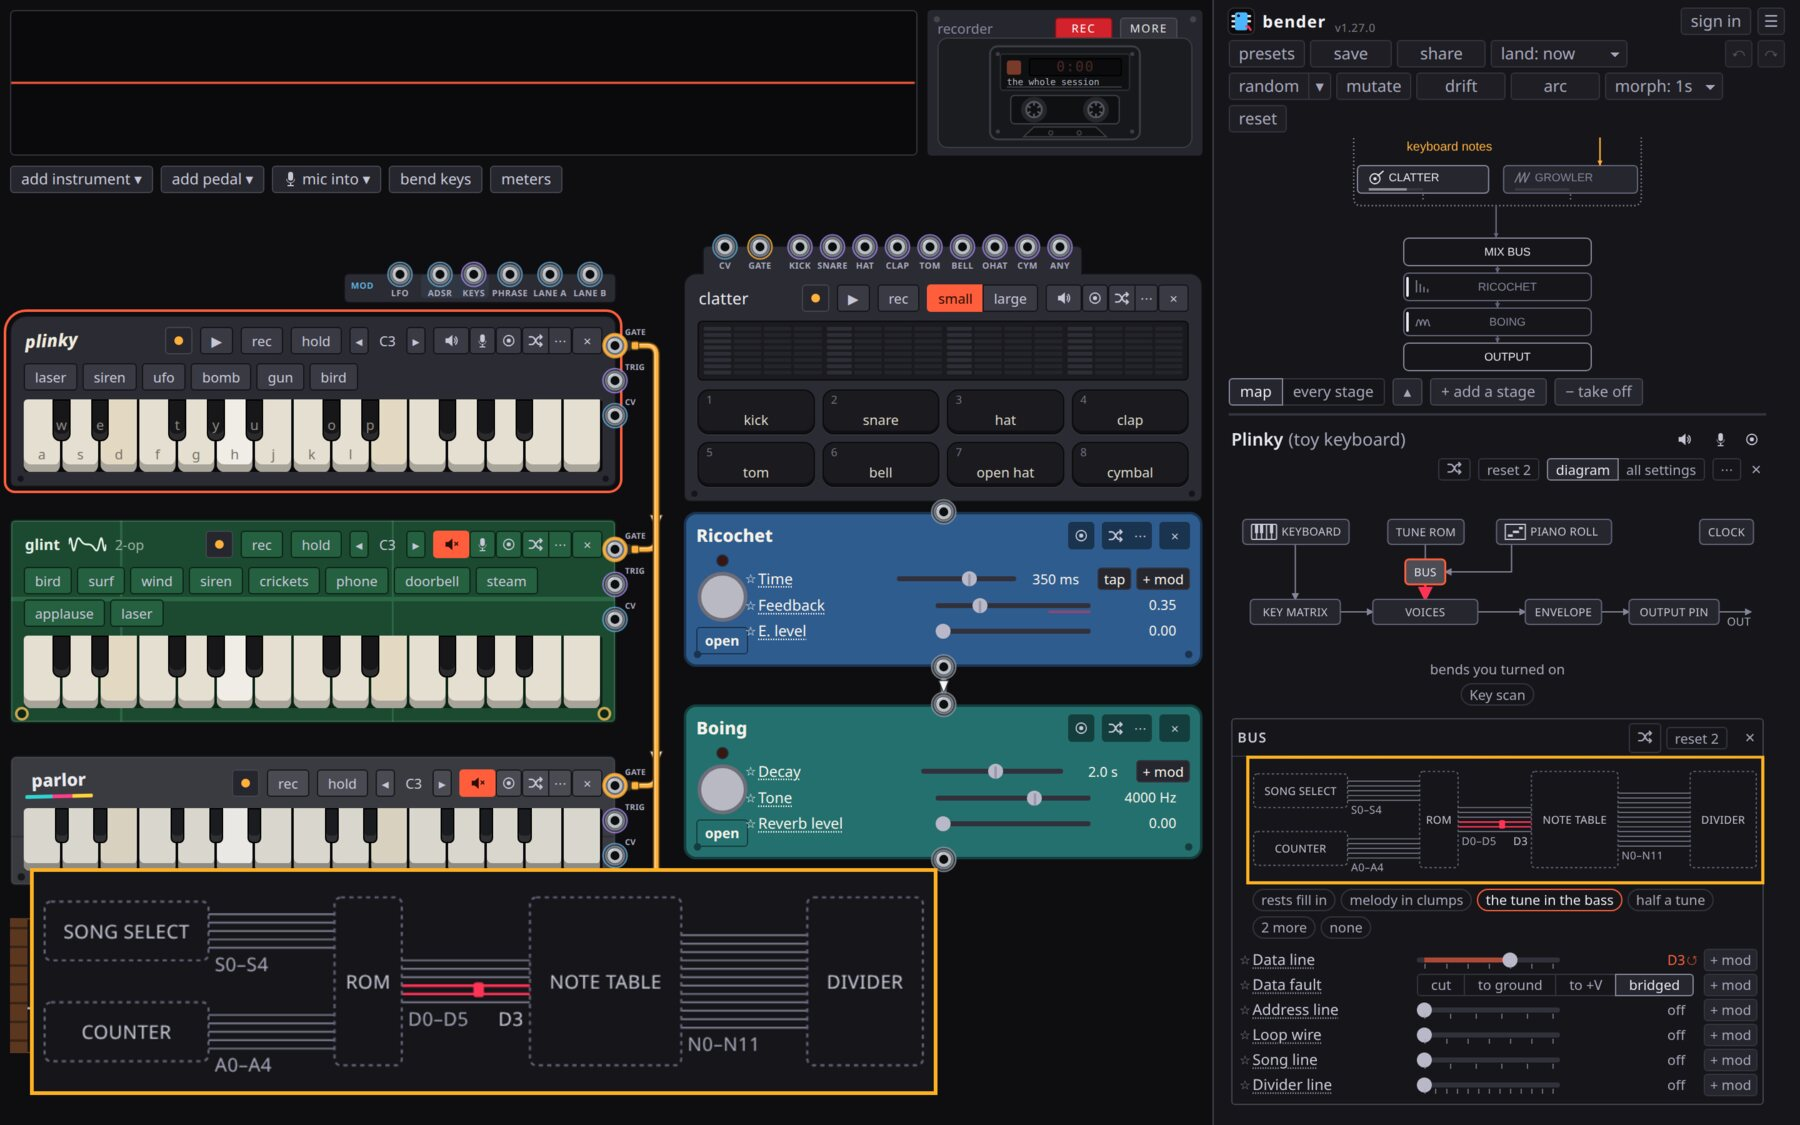
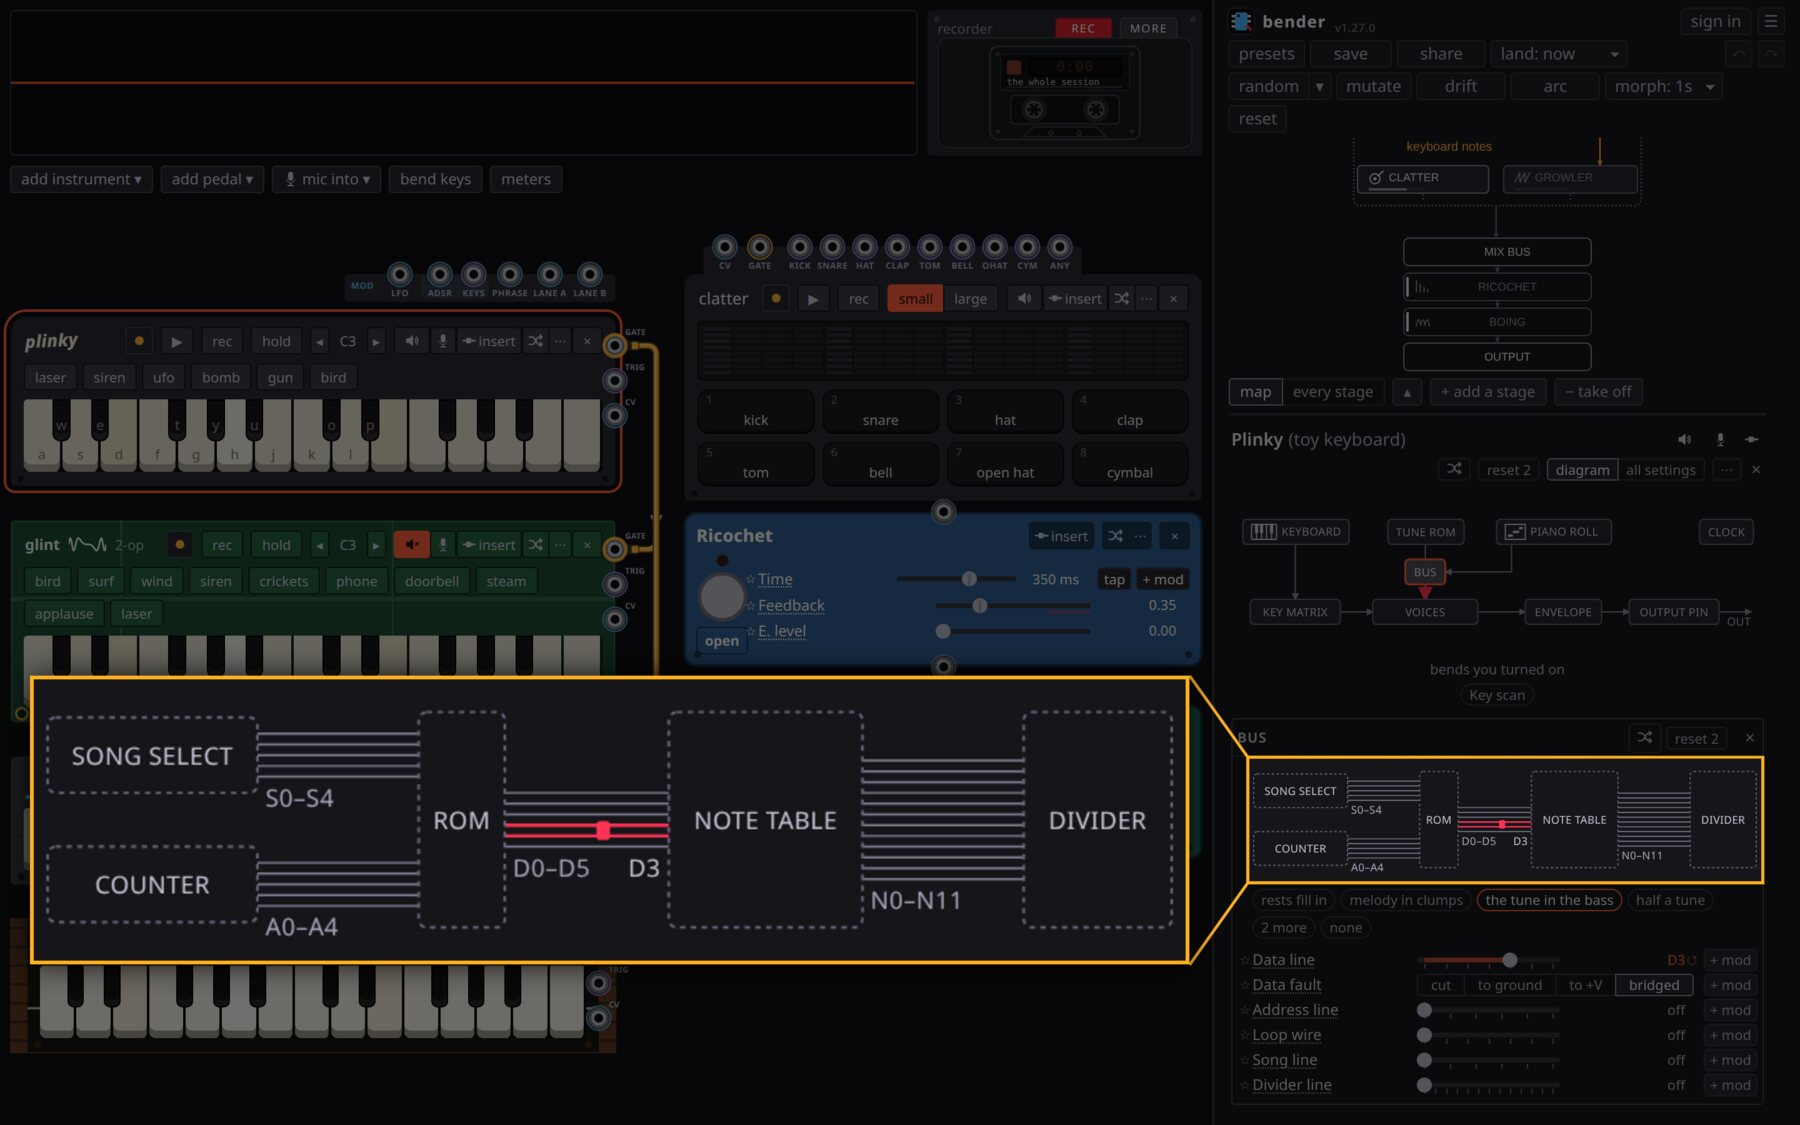
docs: README zoom is bigger, dims the app and ties back to its part with callout lines

diff --git a/scripts/readme-shots.ts b/scripts/readme-shots.ts
@@ -18,8 +18,9 @@ import { join } from 'node:path'
 
 // The README's picture: `pnpm readme-shots` rewrites docs/readme/*.jpg. Each
 // picture is the whole app with one stage open, the part it is about outlined,
-// and a zoom of that part laid over the bench. Pass file names to retake only
-// those. Wants a Chrome and ImageMagick's `magick`.
+// and a zoom of that part, tied to it by callout lines, laid over the dimmed
+// rest. Pass file names to retake only those. Wants a Chrome and
+// ImageMagick's `magick`.
 
 const PORT = 5220
 const DEBUG_PORT = 9344
@@ -28,6 +29,9 @@ const DPR = 2
 const PAD = 4
 const MARGIN = 24
 const ACCENT = '#ffb020'
+const ZOOM_SHARE = 0.64
+const DIM = '55%'
+const SHADOW = 12
 const OUT = 'docs/readme'
 
 interface Shot {
@@ -142,19 +146,37 @@ async function open(page: Page, shot: Shot) {
 
 const magick = (args: string[]) => execFileSync('magick', args)
 
+const sizeOf = (file: string) => {
+  const [w = 0, h = 0] = execFileSync('magick', [
+    'identify',
+    '-format',
+    '%w %h',
+    file,
+  ])
+    .toString()
+    .split(' ')
+    .map(Number)
+  return { w, h }
+}
+
+const clamp = (n: number, lo: number, hi: number) =>
+  Math.min(Math.max(n, lo), hi)
+
 function compose(raw: string, work: string, shot: Shot, rect: Rect) {
+  const frame = { w: VIEW.width * DPR, h: VIEW.height * DPR }
   const box = {
     x: Math.round((rect.x - PAD) * DPR),
     y: Math.round((rect.y - PAD) * DPR),
     w: Math.round((rect.width + PAD * 2) * DPR),
     h: Math.round((rect.height + PAD * 2) * DPR),
   }
+  const crop = `${box.w}x${box.h}+${box.x}+${box.y}`
   const inset = join(work, 'inset.png')
-  const fit = `${Math.round(VIEW.width * DPR * 0.5)}x${Math.round(VIEW.height * DPR * 0.5)}`
+  const fit = `${Math.round(frame.w * ZOOM_SHARE)}x${Math.round(frame.h * 0.5)}`
   magick([
     raw,
     '-crop',
-    `${box.w}x${box.h}+${box.x}+${box.y}`,
+    crop,
     '+repage',
     '-resize',
     fit,
@@ -164,18 +186,51 @@ function compose(raw: string, work: string, shot: Shot, rect: Rect) {
     String(3 * DPR),
     inset,
   ])
-  const [, insetH = 0] = execFileSync('magick', [
-    'identify',
-    '-format',
-    '%w %h',
+  const size = sizeOf(inset)
+  const margin = MARGIN * DPR
+  const onLeft = box.x + box.w / 2 > frame.w / 2
+  const at = {
+    x: onLeft ? margin : frame.w - size.w - margin,
+    y: Math.round(
+      clamp(box.y + box.h / 2 - size.h / 2, margin, frame.h - size.h - margin),
+    ),
+  }
+  const from = onLeft ? box.x : box.x + box.w
+  const to = onLeft ? at.x + size.w : at.x
+  const blur = SHADOW * DPR
+  const shadowed = join(work, 'shadowed.png')
+  magick([
     inset,
+    '(',
+    '+clone',
+    '-background',
+    'black',
+    '-shadow',
+    `85x${blur}+0+0`,
+    ')',
+    '+swap',
+    '-background',
+    'none',
+    '-layers',
+    'merge',
+    '+repage',
+    shadowed,
   ])
-    .toString()
-    .split(' ')
-    .map(Number)
-  const at = MARGIN * DPR
   magick([
     raw,
+    '-fill',
+    'black',
+    '-colorize',
+    DIM,
+    '(',
+    raw,
+    '-crop',
+    crop,
+    '+repage',
+    ')',
+    '-geometry',
+    `+${box.x}+${box.y}`,
+    '-composite',
     '-fill',
     'none',
     '-stroke',
@@ -184,9 +239,13 @@ function compose(raw: string, work: string, shot: Shot, rect: Rect) {
     String(2 * DPR),
     '-draw',
     `rectangle ${box.x},${box.y} ${box.x + box.w},${box.y + box.h}`,
-    inset,
+    '-draw',
+    `line ${from},${box.y} ${to},${at.y}`,
+    '-draw',
+    `line ${from},${box.y + box.h} ${to},${at.y + size.h}`,
+    shadowed,
     '-geometry',
-    `+${at}+${VIEW.height * DPR - insetH - at}`,
+    `+${at.x - blur * 2}+${at.y - blur * 2}`,
     '-composite',
     '-resize',
     `${shot.width ?? 1600}x`,
